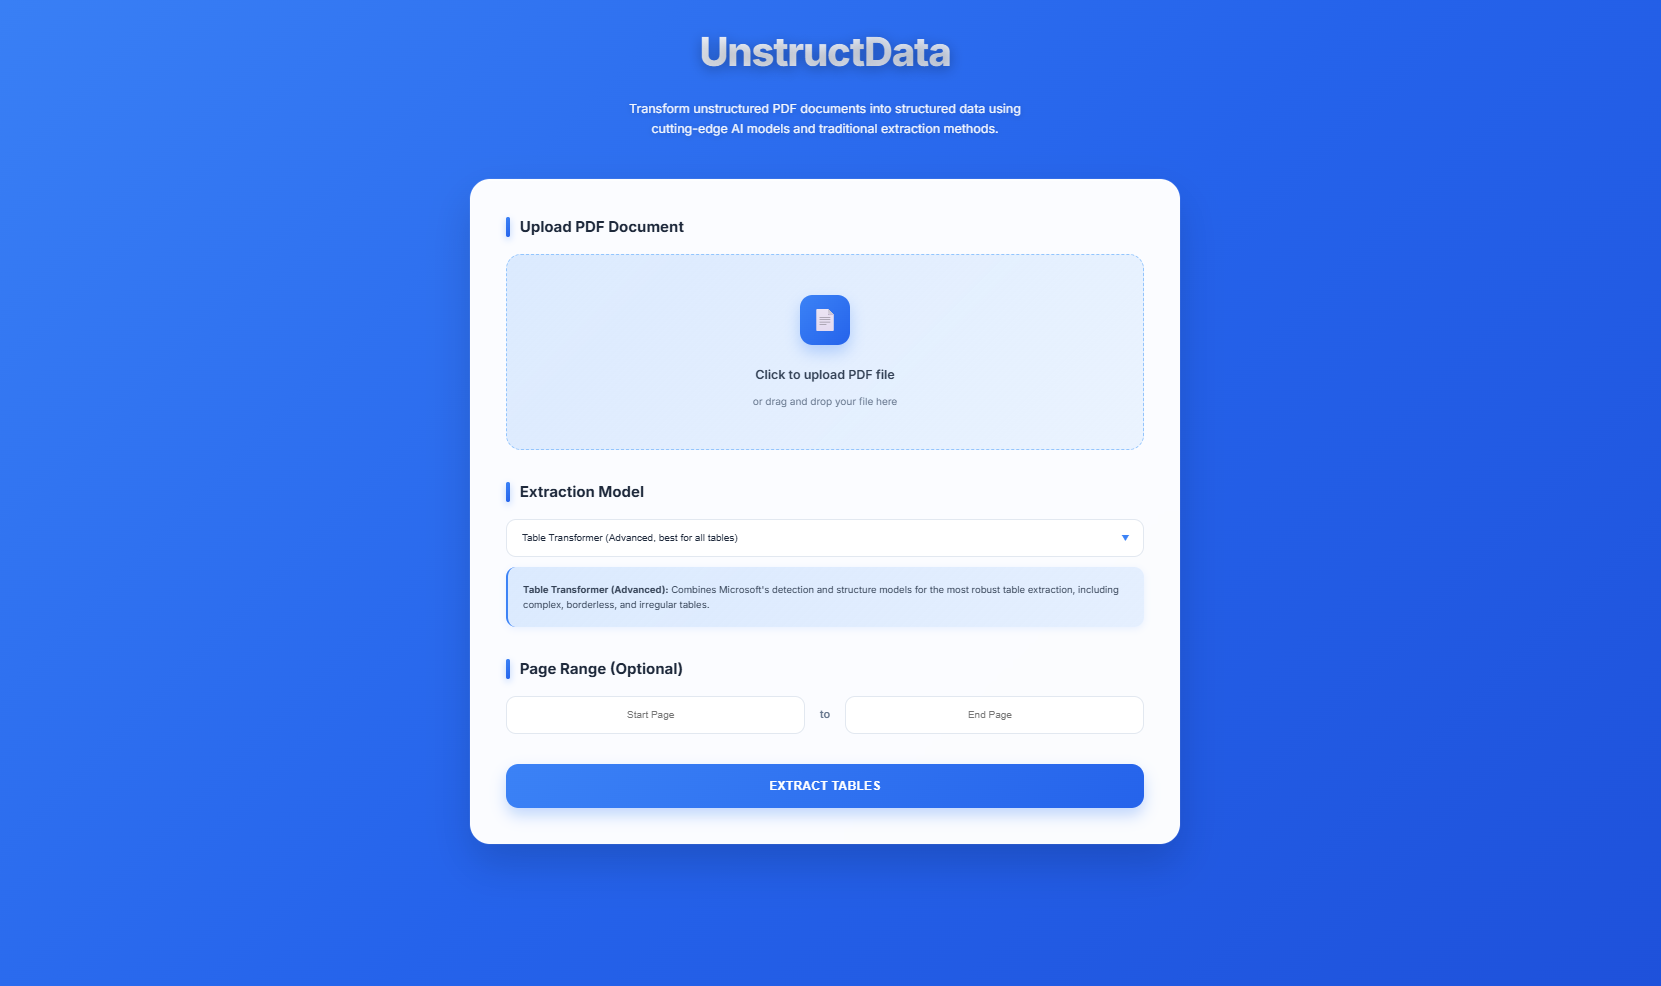
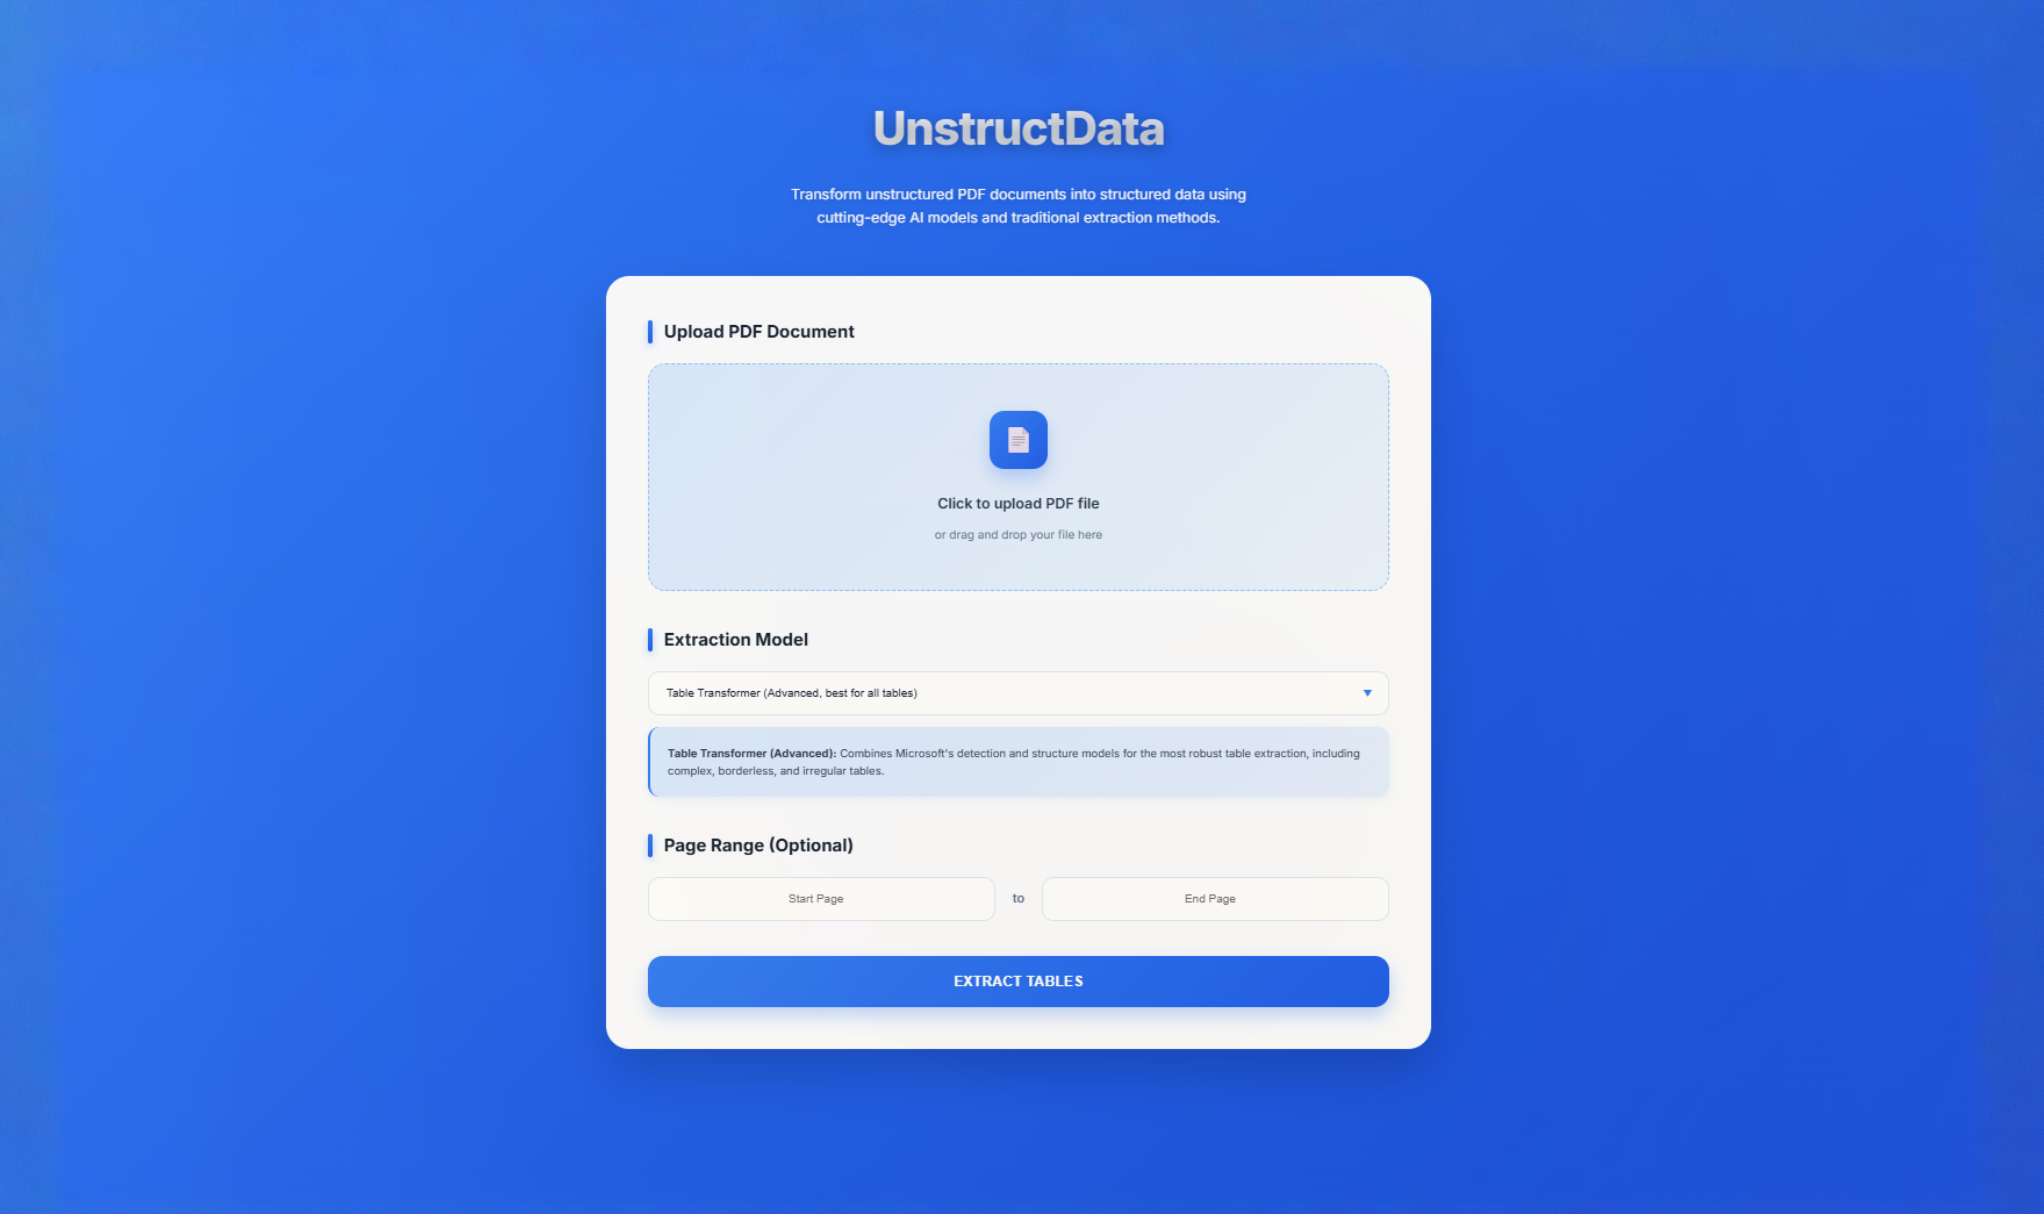
Edited the pictures

Changed region(s): [[0.2763, 0.0304, 0.7369, 0.8824]]

diff --git a/app/projects/page.tsx b/app/projects/page.tsx
@@ -127,10 +127,10 @@ export default function ProjectsPage() {
                 initial="hidden"
                 whileInView="show"
                 viewport={{ once: true }}
-                className="group card-enhanced p-0 overflow-hidden rounded-2xl shadow-2xl bg-white dark:bg-zinc-900 flex flex-col h-full transform scale-105 hover:scale-110 transition-transform duration-300 max-w-2xl mx-auto w-full"
+                className="group card-enhanced p-3 md:p-8 rounded-xl shadow-lg bg-white dark:bg-zinc-900 flex flex-col space-y-4 max-w-2xl mx-auto w-full"
                 style={{ minHeight: '520px' }}
               >
-                <div className="relative rounded-xl overflow-hidden bg-muted/30 w-full h-80">
+                <div className="relative w-full h-56 md:h-80 overflow-hidden bg-muted/30 p-0 m-0">
                   <Carousel 
                     className="relative w-full h-full"
                     setApi={setApi}
@@ -139,12 +139,12 @@ export default function ProjectsPage() {
                     <CarouselContent className="no-animation">
                       {project.images.map((img, i) => (
                         <CarouselItem key={i} className="no-animation">
-                          <div className="relative w-full h-80 flex items-center justify-center overflow-hidden bg-transparent group/image">
+                          <div className="relative w-full h-56 md:h-80 flex items-center justify-center overflow-hidden bg-transparent group/image p-0 m-0">
                             <Image
                               src={img}
                               alt={project.title + ' image ' + (i+1)}
                               fill
-                              className="object-contain transition-transform duration-300 group-hover/image:scale-105"
+                              className="object-cover transition-transform duration-300 group-hover/image:scale-105 rounded-t-xl"
                               priority={i === 0}
                             />
                             <button
@@ -167,14 +167,14 @@ export default function ProjectsPage() {
                     />
                   </Carousel>
                 </div>
-                <div className="p-8 flex-1 flex flex-col">
-                  <h3 className="text-2xl font-bold mb-4 group-hover:text-primary transition-colors">
+                <div className="flex-1 flex flex-col space-y-3 p-2 md:p-4">
+                  <h3 className="text-xl md:text-2xl font-bold mb-1 group-hover:text-primary transition-colors">
                     {project.title}
                   </h3>
-                  <p className="text-lg text-muted-foreground mb-6 leading-relaxed">
+                  <p className="text-base text-muted-foreground mb-2 leading-relaxed">
                     {project.description}
                   </p>
-                  <div className="flex flex-wrap gap-3 mb-6">
+                  <div className="flex flex-wrap gap-2 mb-2">
                     {project.tags.map((tag) => (
                       <span
                         key={tag}
@@ -221,11 +221,14 @@ export default function ProjectsPage() {
               </a>
             </Button>
           </div>
-          <div className="flex flex-row items-center justify-between w-full gap-4">
-            <h3 className="text-lg md:text-xl mb-0 font-normal whitespace-nowrap">Interested in collaborating?</h3>
+          <div className="flex flex-row flex-wrap items-center w-full gap-2">
+            <h3 className="text-lg md:text-xl font-normal whitespace-normal flex-1">
+              Interested in collaborating?
+            </h3>
             <Button
               variant="outline"
               asChild
+              className="w-auto"
             >
               <a href="/contact" className="flex items-center justify-center gap-2">
                 <ChevronRight className="mr-2 h-4 w-4" />
